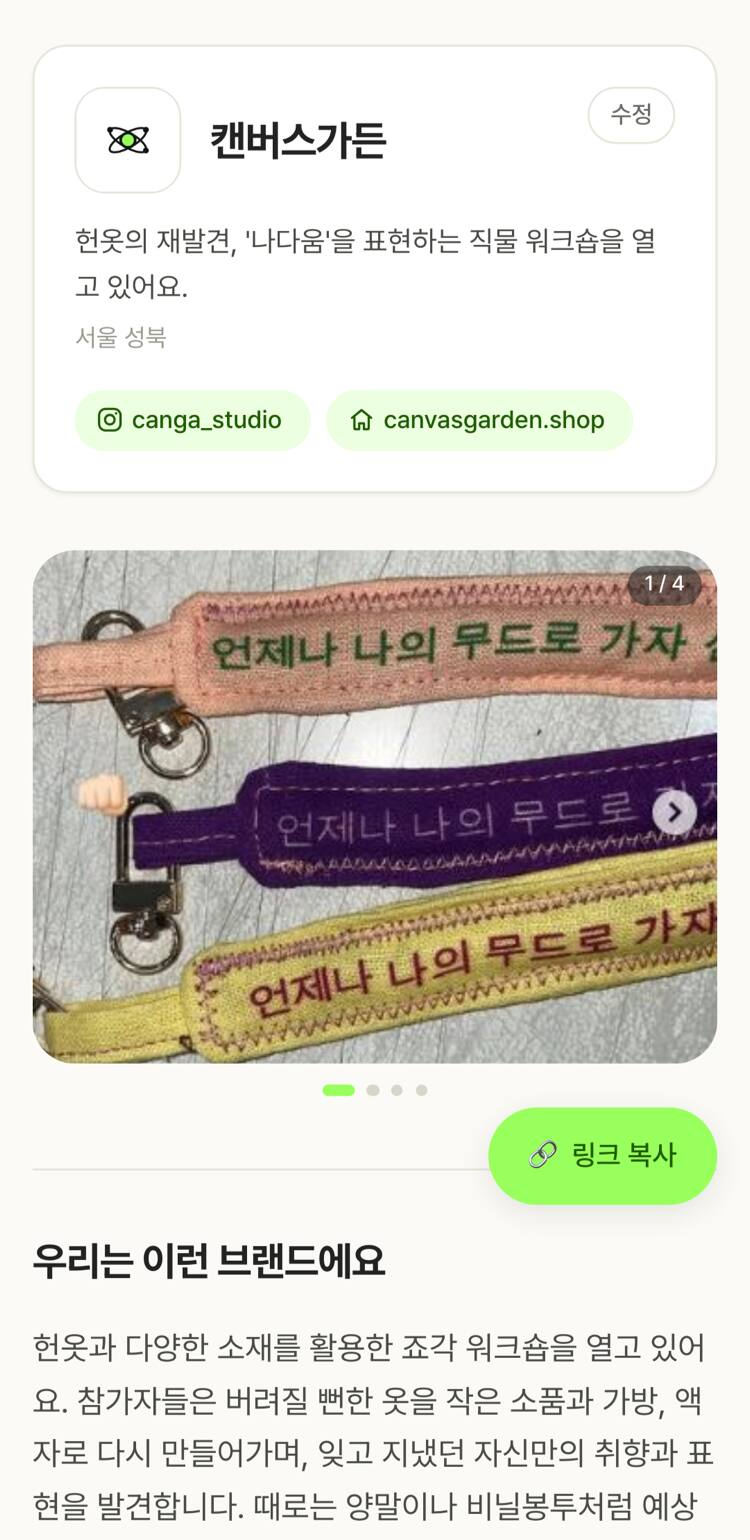
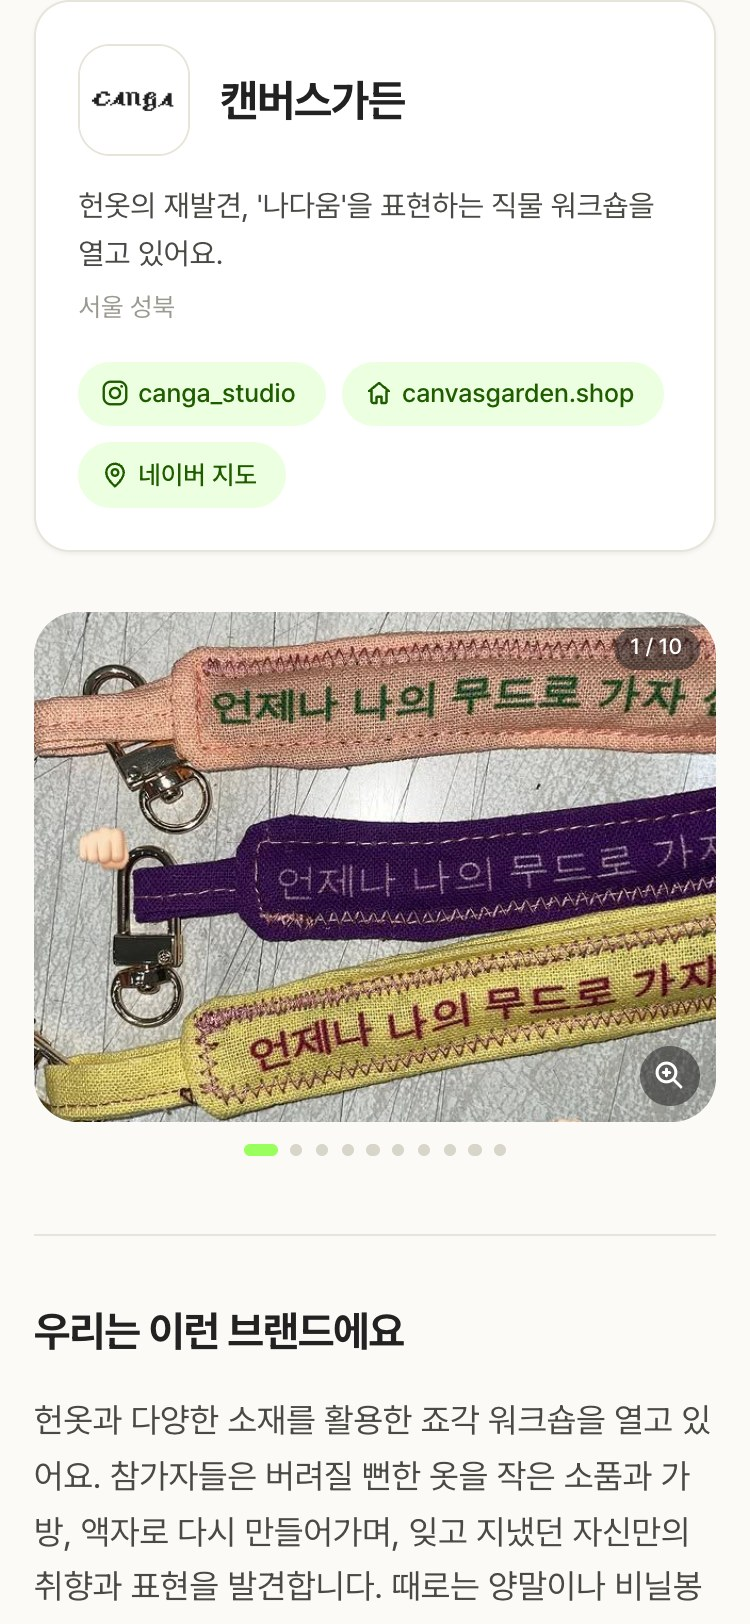
feat(preview): 목업 슬라이드 재캡처 + 캡처 스크립트 신설 (대표 지시 07-28)
원본(m-ofjghi)이 갱신돼 데모를 다시 뜬 뒤, 홈 목업 7장을 새 데모에서 다시 찍었다.

⭐대표 지시: 목업엔 **소개서 본문만** 나온다 — 사이트 헤더·푸터·하단 콜라보 액션바·
  링크복사/하트·'수정' 버튼을 전부 숨기고 캡처한다. 폰 프레임 안에 서비스 크롬이
  겹쳐 보이면 목업이 지저분해진다(이전 슬라이드엔 수정·링크복사가 찍혀 있었다).

scripts/capture-preview-slides.ts 신설:
- puppeteer 없이 **Chrome DevTools Protocol 직접 호출**(node 내장 fetch+WebSocket) — 의존성 0.
- 375x812 · deviceScaleFactor 2로 찍어 레티나에서 뭉개지지 않게(원본이 커도 next/image가
  w=640&q=75로 다시 인코딩해 서빙하므로 사용자 다운로드량은 안 늘어난다).
- 스크롤 지점은 h2 텍스트를 앵커로 잡는다 — 섹션이 늘거나 순서가 바뀌어도 같은 장면이 찍힌다.
- CAPTURE_BASE env로 대상 오리진 교체 가능.

왜 스크립트인가: 슬라이드는 '실화면 스크린샷'이 원칙이라(과장·미화 없음) 데모를 다시 뜰 때마다
같은 프레이밍으로 재캡처해야 한다. 손으로 찍으면 스크롤 위치·크롬 노출이 매번 달라진다.

검증: 로컬 홈에서 7장 전부 로드·크롬 요소 0 확인(⚠next 이미지 캐시 때문에 .next 정리 후 확인).
      /preview는 이미지가 아니라 실제 데모 소개서를 렌더하므로 DB 갱신만으로 이미 반영됨.

diff --git a/scripts/capture-preview-slides.ts b/scripts/capture-preview-slides.ts
@@ -1,0 +1,159 @@
+// /preview·홈 목업 슬라이드 재캡처 — 데모 소개서(prod)를 모바일 폭으로 찍어 public/preview/slides/ 갱신.
+// 실행: npx tsx scripts/capture-preview-slides.ts            (전체)
+//       npx tsx scripts/capture-preview-slides.ts photo      (한쪽만)
+//
+// 왜 스크립트인가: 슬라이드는 "실화면 스크린샷"이 원칙이라(과장·미화 없음) 데모를 다시 뜰 때마다
+//   같은 프레이밍으로 다시 찍어야 한다. 손으로 찍으면 스크롤 위치·크롬 노출이 매번 달라진다.
+//
+// ⭐대표 지시(07-28): 목업엔 **소개서 본문만** 나온다 — 사이트 헤더·하단 액션바·링크복사/하트·
+//   '수정' 버튼·푸터는 전부 숨긴다. 폰 프레임 안에 서비스 크롬이 겹쳐 보이면 목업이 지저분해진다.
+//
+// 구현: puppeteer 없이 **Chrome DevTools Protocol 직접 호출**(node 내장 fetch+WebSocket).
+//   의존성 0 — 저장소 방침(라이브러리 최소)에 맞춘다.
+import { spawn } from "node:child_process";
+import { mkdirSync, writeFileSync } from "node:fs";
+import { setTimeout as sleep } from "node:timers/promises";
+
+const CHROME = "/Applications/Google Chrome.app/Contents/MacOS/Google Chrome";
+const PORT = 9333;
+const OUT_DIR = "public/preview/slides";
+const BASE = process.env.CAPTURE_BASE ?? "https://collab5.co.kr";
+
+// 모바일 기준 — 슬라이드 원본이 375x812(iPhone 계열)이고 2배 해상도로 찍어 선명하게.
+const WIDTH = 375;
+const HEIGHT = 812;
+const SCALE = 2;
+
+/** 목업에서 걷어낼 서비스 크롬. 선택자가 바뀌면 여기만 고친다. */
+const HIDE_CSS = `
+  header, footer { display: none !important; }
+  .fixed.inset-x-0.bottom-0 { display: none !important; }  /* 하단 콜라보 액션바 */
+  [data-capture-hide] { display: none !important; }
+  main { padding-top: 0 !important; }
+`;
+/** 텍스트로만 잡히는 버튼들 — 클래스가 유동적이라 런타임에 표시해 둔다. */
+const MARK_JS = `
+  (() => {
+    const hide = (el) => el && el.setAttribute('data-capture-hide', '');
+    document.querySelectorAll('button').forEach((b) => {
+      const t = (b.textContent || '').trim();
+      const a = b.getAttribute('aria-label') || '';
+      if (t === '수정' || /링크 복사/.test(t) || /찜|하트|저장/.test(a)) hide(b.closest('div[class*="flex"]')?.children.length === 2 ? b : b);
+    });
+    // 링크복사+하트는 같은 줄에 있다 — 줄째로 지워야 빈 공간이 안 남는다
+    const copy = [...document.querySelectorAll('button')].find((b) => /링크 복사/.test(b.textContent || ''));
+    if (copy) hide(copy.parentElement);
+    return document.querySelectorAll('[data-capture-hide]').length;
+  })()
+`;
+
+type Shot = { file: string; anchor: string | null; offset?: number };
+const PLANS: Record<string, { slug: string; shots: Shot[] }> = {
+  photo: {
+    slug: "m-demo-photo",
+    shots: [
+      { file: "photo-1.jpg", anchor: null }, // 상단: 브랜드 카드 + 대표 사진
+      { file: "photo-2.jpg", anchor: "우리는 이런 일을 하고 있어요" },
+      { file: "photo-3.jpg", anchor: "함께한 콜라보" },
+      { file: "photo-4.jpg", anchor: "이런 곳에 소개됐어요" },
+    ],
+  },
+  none: {
+    slug: "m-demo-none",
+    shots: [
+      { file: "none-1.jpg", anchor: null },
+      { file: "none-2.jpg", anchor: "우리는 이런 일을 하고 있어요" },
+      { file: "none-3.jpg", anchor: "이런 콜라보를 기대하고 있어요" },
+    ],
+  },
+};
+
+// ── CDP 최소 클라이언트 ──────────────────────────────────────
+let nextId = 1;
+function connect(wsUrl: string) {
+  const ws = new WebSocket(wsUrl);
+  const waiters = new Map<number, (v: Record<string, unknown>) => void>();
+  const ready = new Promise<void>((res) => (ws.onopen = () => res()));
+  ws.onmessage = (ev) => {
+    const msg = JSON.parse(String(ev.data));
+    const w = waiters.get(msg.id);
+    if (w) { waiters.delete(msg.id); w(msg.result ?? {}); }
+  };
+  const send = async (method: string, params: Record<string, unknown> = {}) => {
+    await ready;
+    const id = nextId++;
+    const p = new Promise<Record<string, unknown>>((res) => waiters.set(id, res));
+    ws.send(JSON.stringify({ id, method, params }));
+    return p;
+  };
+  return { send, close: () => ws.close() };
+}
+
+async function main() {
+  const only = process.argv[2];
+  mkdirSync(OUT_DIR, { recursive: true });
+
+  const chrome = spawn(CHROME, [
+    "--headless=new",
+    `--remote-debugging-port=${PORT}`,
+    "--hide-scrollbars",
+    "--force-device-scale-factor=1",
+    "--user-data-dir=/tmp/collab5-capture",
+    "about:blank",
+  ], { stdio: "ignore" });
+
+  try {
+    // 디버깅 포트가 열릴 때까지 대기
+    let target: { webSocketDebuggerUrl: string } | undefined;
+    for (let i = 0; i < 40 && !target; i++) {
+      await sleep(250);
+      try {
+        const list = (await (await fetch(`http://127.0.0.1:${PORT}/json/list`)).json()) as { type: string; webSocketDebuggerUrl: string }[];
+        target = list.find((t) => t.type === "page");
+      } catch { /* 아직 안 뜸 */ }
+    }
+    if (!target) throw new Error("Chrome 디버깅 포트가 안 열렸어요(9333). 다른 Chrome 인스턴스가 점유 중일 수 있어요.");
+
+    const cdp = connect(target.webSocketDebuggerUrl);
+    await cdp.send("Page.enable");
+    await cdp.send("Emulation.setDeviceMetricsOverride", {
+      width: WIDTH, height: HEIGHT, deviceScaleFactor: SCALE, mobile: true,
+    });
+
+    for (const [key, plan] of Object.entries(PLANS)) {
+      if (only && only !== key) continue;
+      const url = `${BASE}/m/${plan.slug}`;
+      console.log(`\n▶ ${url}`);
+      await cdp.send("Page.navigate", { url });
+      await sleep(3500); // 폰트·이미지 로드 여유
+
+      await cdp.send("Runtime.evaluate", {
+        expression: `(() => { const s = document.createElement('style'); s.textContent = ${JSON.stringify(HIDE_CSS)}; document.head.appendChild(s); })()`,
+      });
+      const marked = await cdp.send("Runtime.evaluate", { expression: MARK_JS, returnByValue: true });
+      console.log(`   크롬 숨김 ${(marked.result as { value?: number })?.value ?? 0}개 + header/footer/액션바`);
+
+      for (const shot of plan.shots) {
+        const scrollJs = shot.anchor
+          ? `(() => { const h = [...document.querySelectorAll('h2')].find(e => e.textContent.trim() === ${JSON.stringify(shot.anchor)}); if (!h) return -1; const y = h.getBoundingClientRect().top + scrollY - 24; scrollTo(0, y); return Math.round(y); })()`
+          : `(() => { scrollTo(0, 0); return 0; })()`;
+        const r = await cdp.send("Runtime.evaluate", { expression: scrollJs, returnByValue: true });
+        const y = (r.result as { value?: number })?.value ?? -1;
+        if (y < 0) { console.log(`   ⚠ ${shot.file} — 앵커 '${shot.anchor}' 못 찾음, 건너뜀`); continue; }
+        await sleep(700); // 스크롤 후 lazy 이미지 로드
+        const cap = await cdp.send("Page.captureScreenshot", { format: "jpeg", quality: 88 });
+        writeFileSync(`${OUT_DIR}/${shot.file}`, Buffer.from(String((cap as { data: string }).data), "base64"));
+        console.log(`   📸 ${shot.file}  (y=${y})`);
+      }
+    }
+    cdp.close();
+    console.log(`\n🎉 완료 — ${OUT_DIR}/ 확인 후 홈·/preview 에서 눈으로 보세요.`);
+  } finally {
+    chrome.kill();
+  }
+}
+
+main().catch((e) => {
+  console.error(`\n❌ 실패: ${e instanceof Error ? e.message : e}`);
+  process.exit(1);
+});
